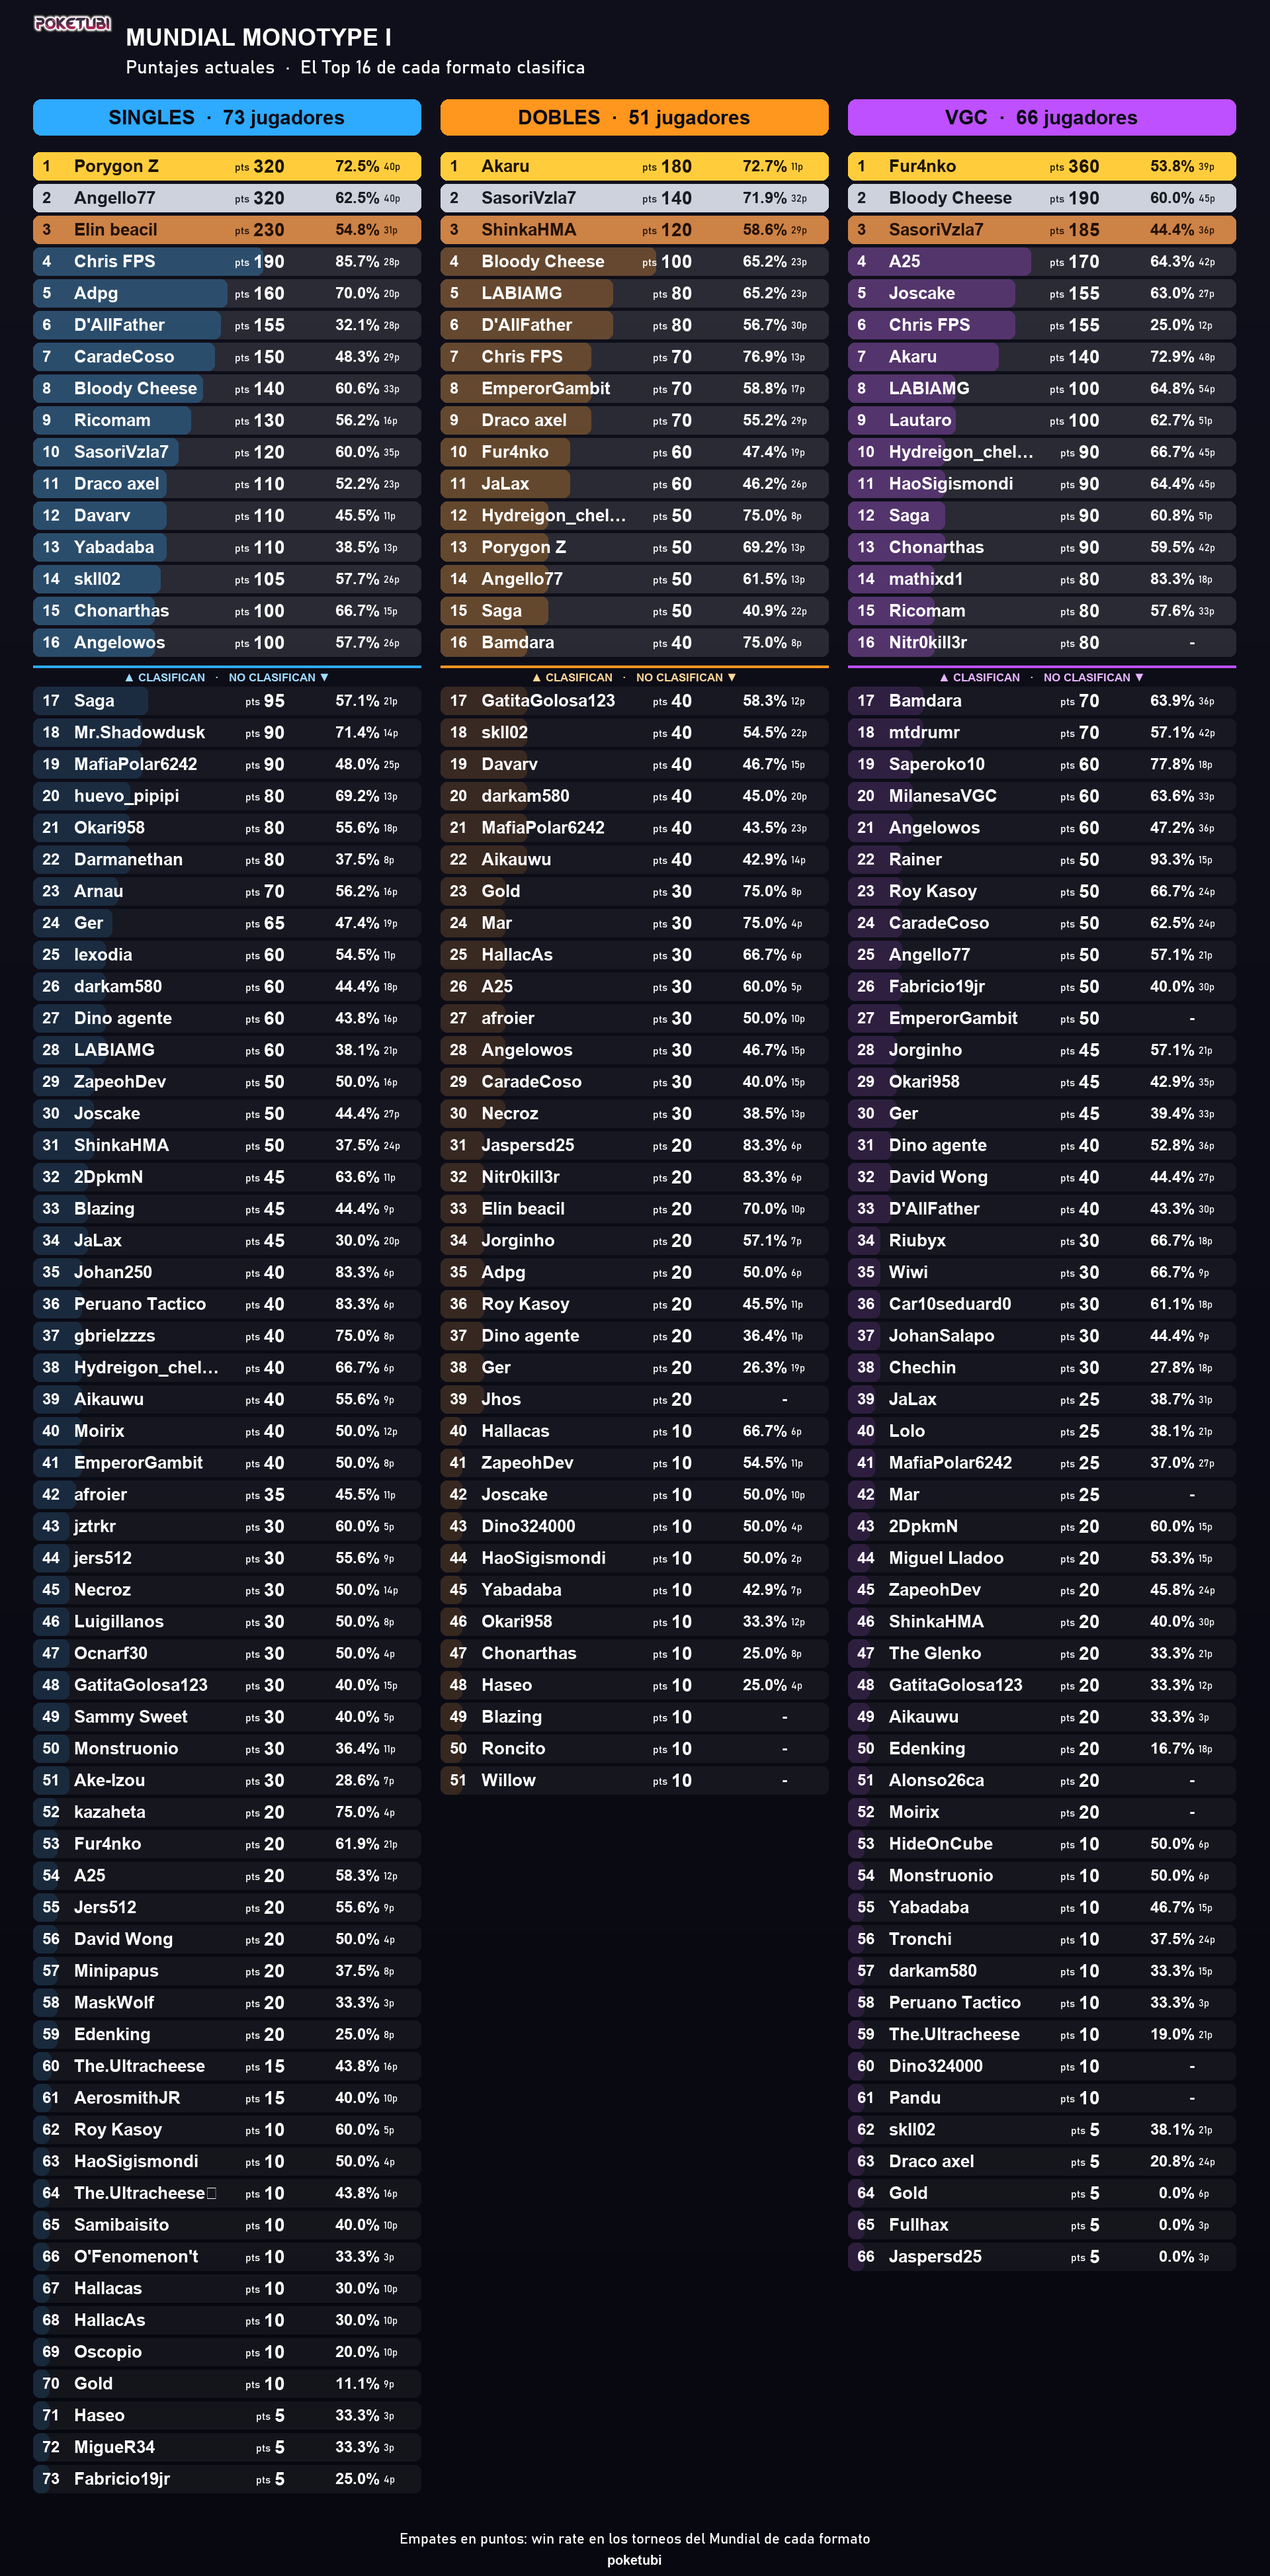
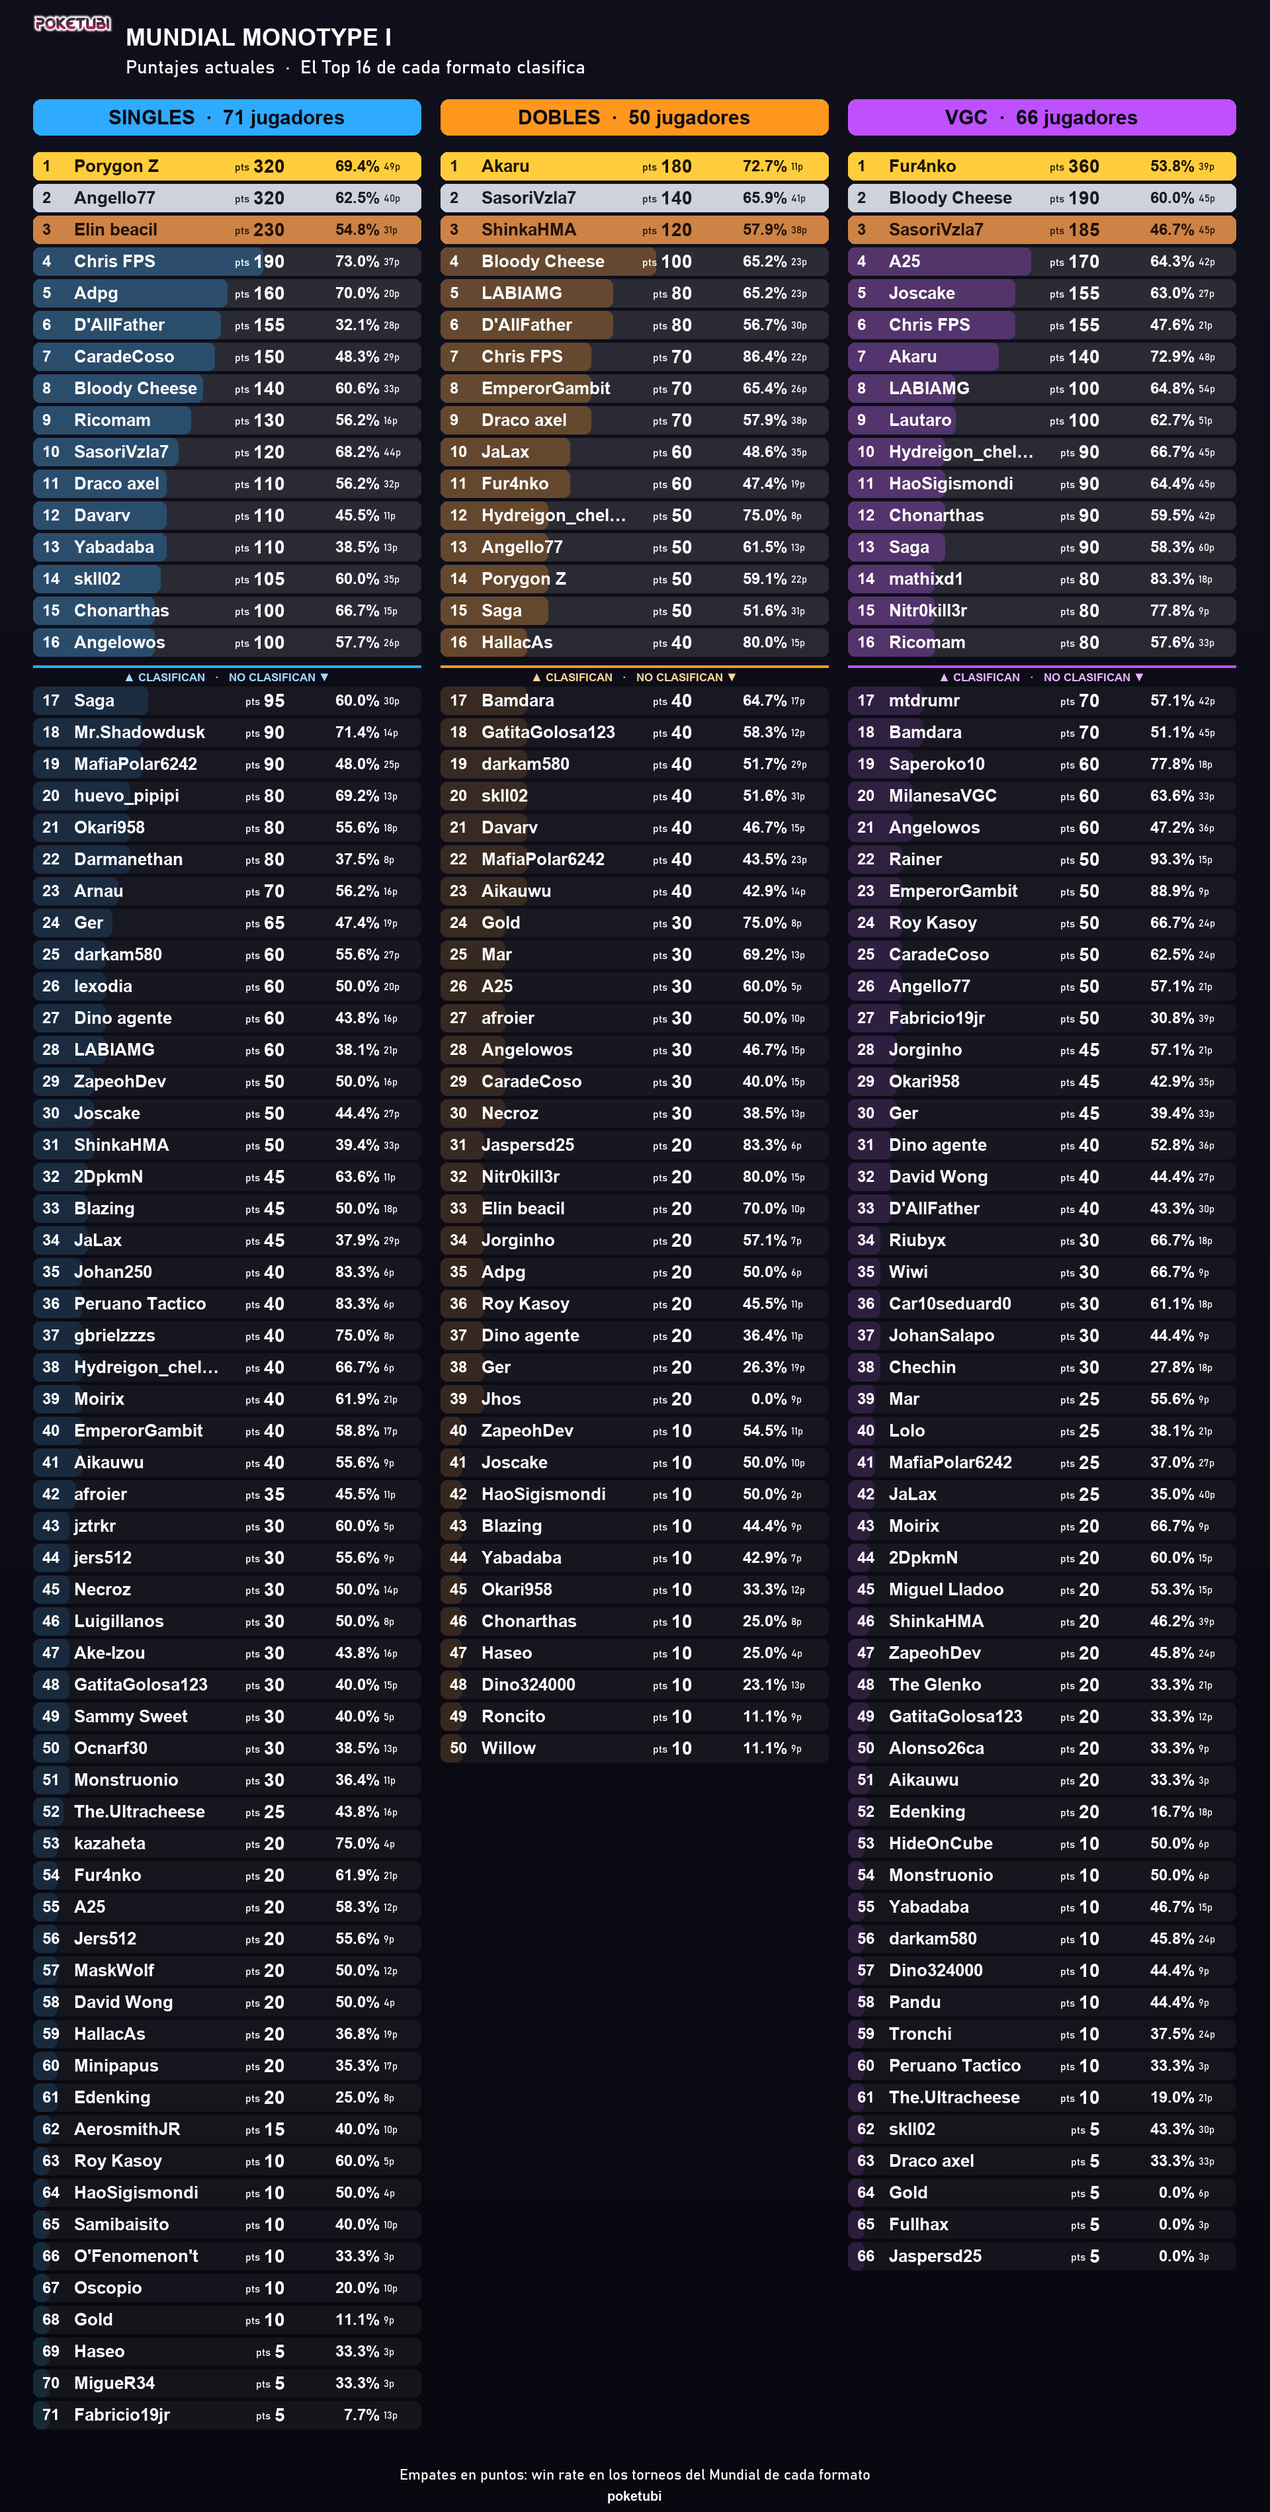
Descripcion del cambio}

Changed region(s): [[0.0, 0.0, 0.9688, 0.9631], [0.1875, 0.5282, 0.2188, 0.9321], [0.8438, 0.5282, 0.875, 0.901]]

diff --git a/generar_ranking_monotype_png.py b/generar_ranking_monotype_png.py
@@ -23,6 +23,8 @@ from utils import load_data
 from vistas import mundial_info as mi
 
 TOP_N = 16
+# Temporadas de liga que forman parte del Mundial Monotype I (cuentan para el win rate junto con los torneos)
+LIGAS_MONOTYPE = ["PJST6", "PEST3"]
 SALIDA = "rankings_monotype"
 FUENTE = r"C:\Windows\Fonts\bahnschrift.ttf"
 FUENTE_B = r"C:\Windows\Fonts\arialbd.ttf"
@@ -50,11 +52,13 @@ def _gradiente(c1, c2, ancho, alto):
 
 def _winrates(df_raw):
     """Win rate por formato y jugador, con las batallas definidas, walkovers incluidos (Walkover >= 0; -1 = pendiente) de los torneos del
-    Mundial Monotype I que pertenecen a ese formato (MONOTYPE1_POSICIONES). Devuelve {fmt: {jugador: (wr %, juegos)}}."""
+    Mundial Monotype I que pertenecen a ese formato (MONOTYPE1_POSICIONES) y de las ligas PJS T6 y PES T3. Devuelve {fmt: {jugador: (wr %, juegos)}}."""
     out = {}
     for fmt in ("SINGLES", "DOBLES", "VGC"):
         torneos = _torneos_fmt(fmt)
-        g = df_raw[(df_raw["league"] == "TORNEO") & (df_raw["N_Torneo"].isin(torneos))
+        en_torneo = (df_raw["league"] == "TORNEO") & (df_raw["N_Torneo"].isin(torneos))
+        en_liga = (df_raw["league"] == "LIGA") & (df_raw["Aka_evento"].isin(LIGAS_MONOTYPE))
+        g = df_raw[(en_torneo | en_liga)
                    & (df_raw["Formato"].astype(str).str.upper() == fmt) & (df_raw["Walkover"] >= 0)]
         res = {}
         for p1, p2, w in zip(g["player1"], g["player2"], g["winner"]):

diff --git a/vistas/mundial_info.py b/vistas/mundial_info.py
@@ -417,7 +417,7 @@ MONOTYPE1_POSICIONES = {
         "Saga":     "Top40",
         "The.Ultracheese":     "Top40",
         "skll02":     "Top40",
-        "Hallacas":     "Top40",
+        "HallacAs":     "Top40",
         "D'AllFather":     "Top40",
         "Blazing":     "Top40",
 
@@ -535,7 +535,7 @@ MONOTYPE1_POSICIONES = {
         "Draco axel":     "Top16",
         "Fur4nko":     "Top16",
         "GatitaGolosa123":     "Top16",
-        "Hallacas":     "Top16",
+        "HallacAs":     "Top16",
         "HaoSigismondi":     "Top16",
         "Ger":     "Top16"
 
@@ -561,7 +561,7 @@ MONOTYPE1_POSICIONES = {
         "jztrkr":     "Top16",
         "MafiaPolar6242":     "Top16",
         "Moirix":     "Top16",
-        "mounstronio":     "Top16",
+        "Monstruonio":     "Top16",
 
         "Arnau":     "Top24",
         "CaradeCoso":     "Top24",
@@ -584,7 +584,7 @@ MONOTYPE1_POSICIONES = {
 
         "afroier":     "Top40",
         "Fabricio19jr":     "Top40",
-        "Hallacas":     "Top40",
+        "HallacAs":     "Top40",
         "2DpkmN":     "Top40",
         "Haseo":     "Top40",
         "MigueR34":     "Top40",
@@ -780,7 +780,7 @@ MONOTYPE1_POSICIONES = {
 
 
         "MafiaPolar6242":     "Top16",
-        "The.Ultracheese	":     "Top16",
+        "The.Ultracheese":     "Top16",
         "Saga":     "Top16",
         "Bloody Cheese":     "Top16",
         "Angello77":     "Top16",

diff --git a/app.py b/app.py
@@ -185,6 +185,16 @@ section[data-testid="stSidebar"] [data-testid="stNavSectionHeader"] {
     border-radius: 4px 8px 0 0;
     font-weight: 700;
 }
+/* Móvil: menos margen superior y padding lateral */
+@media (max-width: 640px) {
+    [data-testid="stMainBlockContainer"], .block-container {
+        padding-top: 2.5rem !important;
+        padding-left: 0.8rem !important;
+        padding-right: 0.8rem !important;
+    }
+    h1 { font-size: 1.7rem !important; }
+    [data-testid="stDataFrame"], [data-testid="stTable"] { overflow-x: auto; }
+}
 </style>
 """, unsafe_allow_html=True)
 
